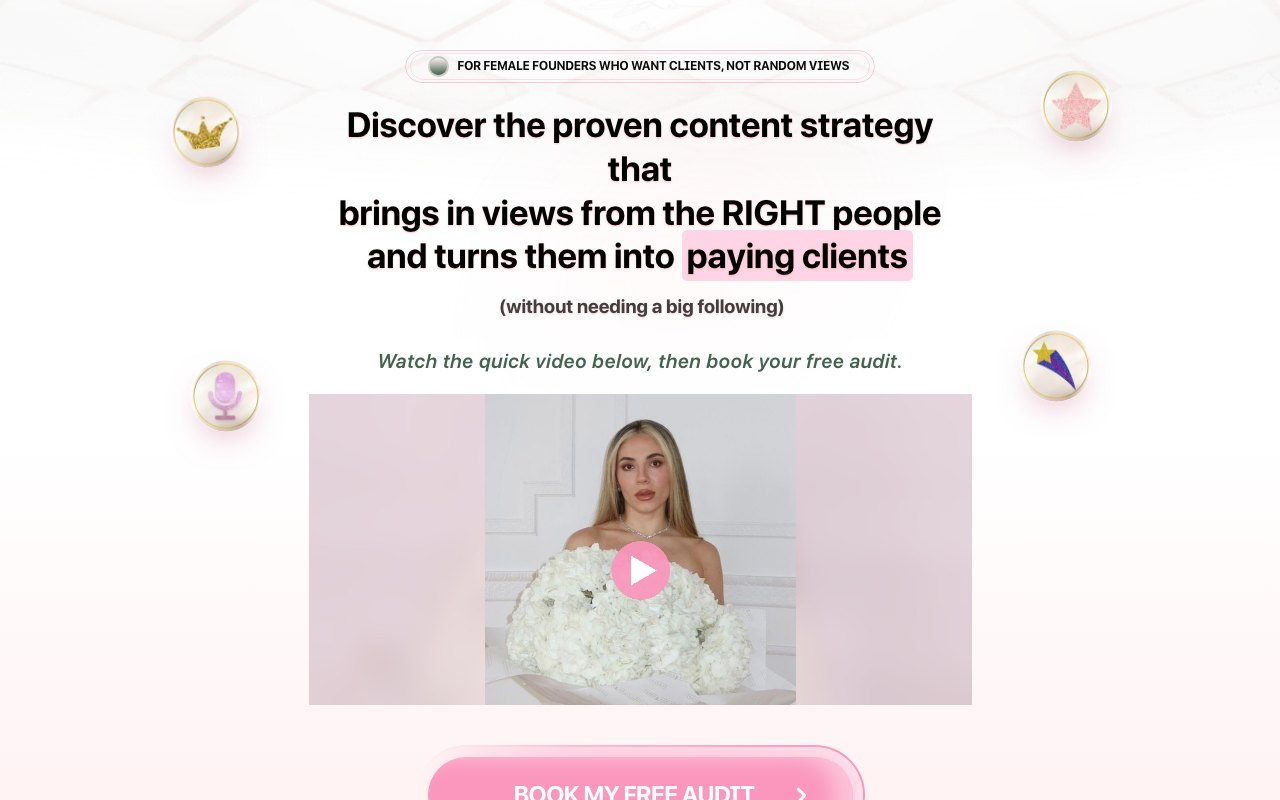
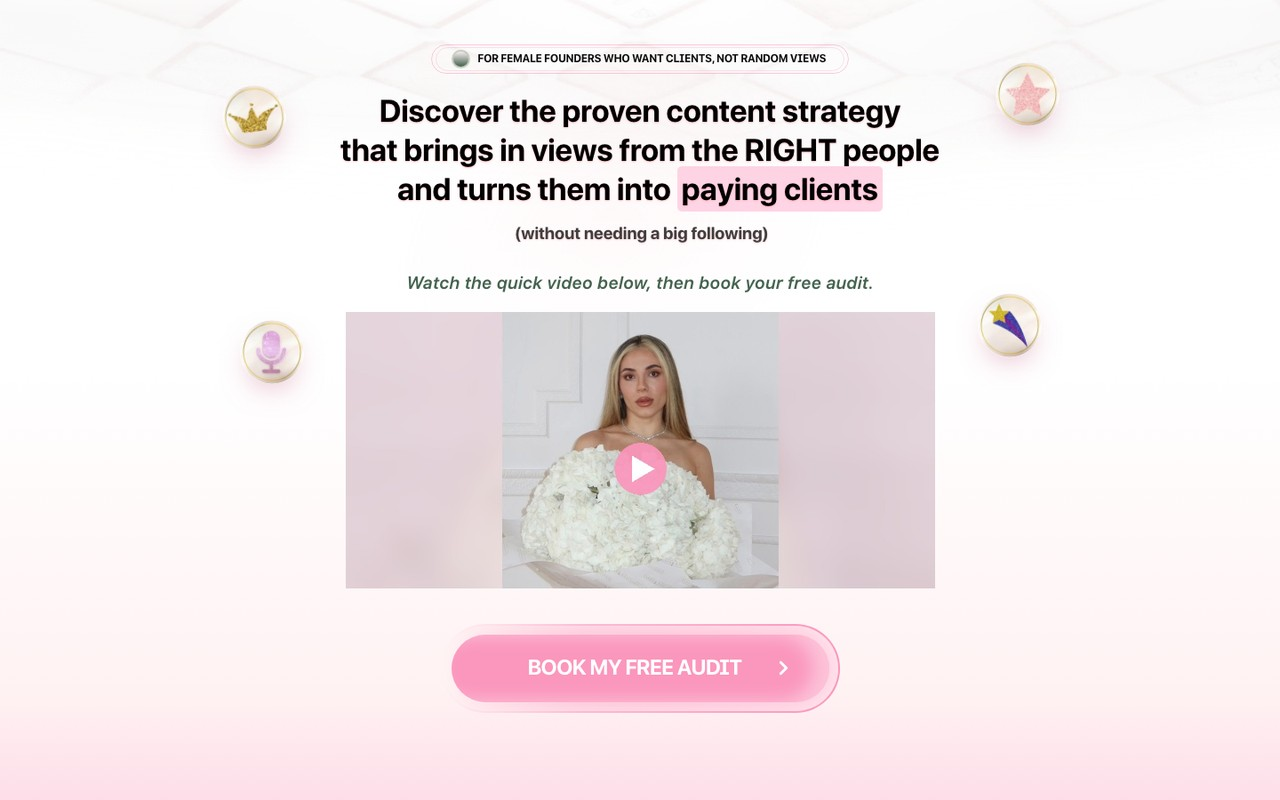
Free audit: fix headline line break, re-shoot hub thumbnail at 1440

diff --git a/free-audit/index.html b/free-audit/index.html
@@ -343,7 +343,7 @@
     
     <!-- End of bodyStart -->
 	
-	<div id="main" data-framer-hydrate-v2="{&quot;routeId&quot;:&quot;h5i_oXUbv&quot;,&quot;localeId&quot;:&quot;default&quot;,&quot;breakpoints&quot;:[{&quot;hash&quot;:&quot;4s8koe&quot;,&quot;mediaQuery&quot;:&quot;(min-width: 1200px)&quot;},{&quot;hash&quot;:&quot;uwvbux&quot;,&quot;mediaQuery&quot;:&quot;(min-width: 810px) and (max-width: 1199.98px)&quot;},{&quot;hash&quot;:&quot;iz4sl3&quot;,&quot;mediaQuery&quot;:&quot;(min-width: 414px) and (max-width: 809.98px)&quot;},{&quot;hash&quot;:&quot;1br1e2t&quot;,&quot;mediaQuery&quot;:&quot;(max-width: 413.98px)&quot;}]}" data-framer-ssr-released-at="2026-09-29T13:05:31.037Z" data-framer-page-optimized-at="2026-09-29T19:42:05.962Z" data-framer-generated-page><!--$--><style data-framer-html-style>html body { background: rgb(255, 255, 255); }</style><div data-framer-root class="framer-X8zpi framer-Y1jLK framer-4s8koe" style="min-height:100vh;width:auto"><div class="framer-q2tiia"><div class="framer-1xpcqbd" data-framer-name="bg shape" style="transform:rotate(-43deg)"></div></div><div class="framer-17dakj4 hidden-4s8koe hidden-uwvbux hidden-iz4sl3"><div class="framer-msisua" data-border="true"><div class="framer-1wldt96" data-border="true" data-framer-name="Alert"><div class="framer-14oqm4g" data-framer-name="Pulse"><div class="framer-1hjm7bx" data-framer-name="Small"></div><div class="framer-rq7udd" data-framer-name="Big" style="will-change:transform;opacity:0.4;transform:none"></div></div><div class="framer-1khw9ha" data-framer-component-type="RichTextContainer" style="transform:none"><p dir="auto" style="--font-selector:Q1VTVE9NVjI7U0YgUHJvIERpc3BsYXkgQm9sZA==;--framer-font-family:&quot;SF Pro Display Bold&quot;, &quot;SF Pro Display Bold Placeholder&quot;, sans-serif;--framer-font-open-type-features:'cv01' on, 'cv09' on, 'cv11' on, 'cv05' on, 'ss03' on;--framer-font-size:12px;--framer-font-weight:700;--framer-letter-spacing:0.01em;--framer-text-color:var(--token-b268148b-59de-488b-84bf-ae89da343fe3, rgb(10, 10, 10))" class="framer-text">FOR FEMALE FOUNDERS WHO WANT CLIENTS, NOT RANDOM VIEWS</p></div></div></div></div><div class="framer-tpus61" data-framer-name="HERO"><div class="framer-1c7eb5z" data-framer-name="UPPERPART"><div class="framer-1u1eqik" data-framer-name="main"><div class="framer-3c9dne"><div class="framer-2tj5pi" data-framer-name="main"><div class="framer-csus2r"><div class="framer-efgnys" data-framer-name="main"><div class="framer-5fq69k hidden-1br1e2t" data-border="true"><div class="framer-k2ezid hidden-iz4sl3" data-border="true" data-framer-name="Alert"><div class="framer-17cyu9v" data-framer-name="Pulse"><div class="framer-1uqd4z8" data-framer-name="Small"></div><div class="framer-vag2ty" data-framer-name="Big" style="will-change:transform;opacity:0.4;transform:none"></div></div><div class="ssr-variant hidden-uwvbux"><div class="framer-bhxyn7" data-framer-component-type="RichTextContainer" style="transform:none"><p dir="auto" style="--font-selector:Q1VTVE9NVjI7U0YgUHJvIERpc3BsYXkgQm9sZA==;--framer-font-family:&quot;SF Pro Display Bold&quot;, &quot;SF Pro Display Bold Placeholder&quot;, sans-serif;--framer-font-open-type-features:'cv01' on, 'cv09' on, 'cv11' on, 'cv05' on, 'ss03' on;--framer-font-size:12px;--framer-font-weight:700;--framer-letter-spacing:0.01em;--framer-text-color:var(--token-b268148b-59de-488b-84bf-ae89da343fe3, rgb(10, 10, 10))" class="framer-text">FOR FEMALE FOUNDERS WHO WANT CLIENTS, NOT RANDOM VIEWS</p></div></div><div class="ssr-variant hidden-iz4sl3 hidden-1br1e2t hidden-4s8koe"><div class="framer-bhxyn7" data-framer-component-type="RichTextContainer" style="transform:none"><p dir="auto" style="--font-selector:Q1VTVE9NVjI7U0YgUHJvIERpc3BsYXkgQm9sZA==;--framer-font-family:&quot;SF Pro Display Bold&quot;, &quot;SF Pro Display Bold Placeholder&quot;, sans-serif;--framer-font-open-type-features:'cv01' on, 'cv09' on, 'cv11' on, 'cv05' on, 'ss03' on;--framer-font-size:11px;--framer-font-weight:700;--framer-letter-spacing:0.01em;--framer-text-color:var(--token-b268148b-59de-488b-84bf-ae89da343fe3, rgb(10, 10, 10))" class="framer-text">FOR FEMALE FOUNDERS WHO WANT CLIENTS, NOT RANDOM VIEWS</p></div></div></div><div class="framer-9qt16u hidden-4s8koe hidden-uwvbux" data-border="true"><div class="framer-vjqidj" data-border="true" data-framer-name="Alert"><div class="framer-1y2ulve" data-framer-name="Pulse"><div class="framer-k6xz6w" data-framer-name="Small"></div><div class="framer-11rk619" data-framer-name="Big" style="will-change:transform;opacity:0.4;transform:none"></div></div><div class="framer-1fw6d6x" data-framer-component-type="RichTextContainer" style="transform:none"><p dir="auto" style="--font-selector:Q1VTVE9NVjI7U0YgUHJvIERpc3BsYXkgQm9sZA==;--framer-font-family:&quot;SF Pro Display Bold&quot;, &quot;SF Pro Display Bold Placeholder&quot;, sans-serif;--framer-font-open-type-features:'cv01' on, 'cv09' on, 'cv11' on, 'cv05' on, 'ss03' on;--framer-font-size:12px;--framer-font-weight:700;--framer-letter-spacing:0.01em;--framer-text-color:var(--token-b268148b-59de-488b-84bf-ae89da343fe3, rgb(10, 10, 10))" class="framer-text">FOR FEMALE FOUNDERS WHO WANT CLIENTS, NOT RANDOM VIEWS</p></div></div></div></div><div class="ssr-variant hidden-iz4sl3 hidden-1br1e2t hidden-uwvbux"><div class="framer-1u7wy1i" data-framer-name="WTITLE2" data-selection="true" data-framer-component-type="RichTextContainer" style="transform:none"><p dir="auto" style="--font-selector:Q1VTVE9NVjI7U0YgUHJvIERpc3BsYXkgQm9sZA==;--framer-font-family:&quot;SF Pro Display Bold&quot;, &quot;SF Pro Display Bold Placeholder&quot;, sans-serif;--framer-font-size:35px;--framer-font-weight:700;--framer-line-height:1.25em;--framer-text-alignment:center" class="framer-text">Discover the proven content strategy that</p><p dir="auto" style="--font-selector:Q1VTVE9NVjI7U0YgUHJvIERpc3BsYXkgQm9sZA==;--framer-font-family:&quot;SF Pro Display Bold&quot;, &quot;SF Pro Display Bold Placeholder&quot;, sans-serif;--framer-font-size:35px;--framer-font-weight:700;--framer-line-height:1.25em;--framer-text-alignment:center" class="framer-text">brings in views from the RIGHT people and turns them into <mark style="--framer-text-background-color:rgb(255, 212, 228);--framer-text-background-padding:5px;--framer-text-background-radius:5px" class="framer-text">paying clients</mark><span class="rp-wo"> (without needing a big following)</span></p></div></div><div class="ssr-variant hidden-1br1e2t hidden-uwvbux hidden-4s8koe"><div class="framer-1u7wy1i" data-framer-name="WTITLE2" data-selection="true" data-framer-component-type="RichTextContainer" style="transform:none"><p dir="auto" style="--font-selector:Q1VTVE9NVjI7U0YgUHJvIERpc3BsYXkgQm9sZA==;--framer-font-family:&quot;SF Pro Display Bold&quot;, &quot;SF Pro Display Bold Placeholder&quot;, sans-serif;--framer-font-size:27px;--framer-font-weight:700;--framer-line-height:1.25em;--framer-text-alignment:center" class="framer-text">Discover the proven content strategy that brings in views from the RIGHT people</p><p dir="auto" style="--font-selector:Q1VTVE9NVjI7U0YgUHJvIERpc3BsYXkgQm9sZA==;--framer-font-family:&quot;SF Pro Display Bold&quot;, &quot;SF Pro Display Bold Placeholder&quot;, sans-serif;--framer-font-size:27px;--framer-font-weight:700;--framer-line-height:1.25em;--framer-text-alignment:center" class="framer-text">and turns them into <mark style="--framer-text-background-color:rgb(255, 212, 228);--framer-text-background-padding:5px;--framer-text-background-radius:5px" class="framer-text">paying clients</mark><span class="rp-wo"> (without needing a big following)</span></p></div></div><div class="ssr-variant hidden-iz4sl3 hidden-uwvbux hidden-4s8koe"><div class="framer-1u7wy1i" data-framer-name="WTITLE2" data-selection="true" data-framer-component-type="RichTextContainer" style="transform:none"><p dir="auto" style="--font-selector:Q1VTVE9NVjI7U0YgUHJvIERpc3BsYXkgQm9sZA==;--framer-font-family:&quot;SF Pro Display Bold&quot;, &quot;SF Pro Display Bold Placeholder&quot;, sans-serif;--framer-font-size:25px;--framer-font-weight:700;--framer-line-height:1.25em;--framer-text-alignment:center" class="framer-text">Discover the proven content strategy that brings in views from the RIGHT people</p><p dir="auto" style="--font-selector:Q1VTVE9NVjI7U0YgUHJvIERpc3BsYXkgQm9sZA==;--framer-font-family:&quot;SF Pro Display Bold&quot;, &quot;SF Pro Display Bold Placeholder&quot;, sans-serif;--framer-font-size:25px;--framer-font-weight:700;--framer-line-height:1.25em;--framer-text-alignment:center" class="framer-text">and turns them into <mark style="--framer-text-background-color:rgb(255, 212, 228);--framer-text-background-padding:5px;--framer-text-background-radius:5px" class="framer-text">paying clients</mark><span class="rp-wo"> (without needing a big following)</span></p></div></div><div class="ssr-variant hidden-iz4sl3 hidden-1br1e2t hidden-4s8koe"><div class="framer-1u7wy1i" data-framer-name="WTITLE2" data-selection="true" data-framer-component-type="RichTextContainer" style="transform:none"><p dir="auto" style="--font-selector:Q1VTVE9NVjI7U0YgUHJvIERpc3BsYXkgQm9sZA==;--framer-font-family:&quot;SF Pro Display Bold&quot;, &quot;SF Pro Display Bold Placeholder&quot;, sans-serif;--framer-font-size:35px;--framer-font-weight:700;--framer-line-height:1.25em;--framer-text-alignment:center" class="framer-text">Discover the proven content strategy that </p><p dir="auto" style="--font-selector:Q1VTVE9NVjI7U0YgUHJvIERpc3BsYXkgQm9sZA==;--framer-font-family:&quot;SF Pro Display Bold&quot;, &quot;SF Pro Display Bold Placeholder&quot;, sans-serif;--framer-font-size:35px;--framer-font-weight:700;--framer-line-height:1.25em;--framer-text-alignment:center" class="framer-text">brings in views from the RIGHT people and turns them into <mark style="--framer-text-background-color:rgb(255, 212, 228);--framer-text-background-padding:5px;--framer-text-background-radius:5px" class="framer-text">paying clients</mark><span class="rp-wo"> (without needing a big following)</span></p></div></div><div class="ssr-variant hidden-iz4sl3 hidden-1br1e2t"><div class="framer-133eyea hidden-uwvbux" data-framer-name="WSUB2" data-selection="true" data-framer-component-type="RichTextContainer" style="transform:none"><p dir="auto" style="--font-selector:Q1VTVE9NVjI7U0YgUHJvIERpc3BsYXkgU2VtaWJvbGQgSXRhbGlj;--framer-font-family:&quot;SF Pro Display Semibold Italic&quot;, &quot;SF Pro Display Semibold Italic Placeholder&quot;, sans-serif;--framer-font-size:20px;--framer-font-weight:600;--framer-letter-spacing:0.03em;--framer-line-height:1.3em;--framer-text-alignment:center;--framer-text-color:var(--token-60dd54ff-967d-4bdd-a395-66d9ee4c573e, rgb(130, 150, 114))" class="framer-text">Watch the quick video below, then book your free audit.</p></div></div><div class="ssr-variant hidden-1br1e2t hidden-uwvbux hidden-4s8koe"><div class="framer-133eyea hidden-uwvbux" data-framer-name="WSUB2" data-selection="true" data-framer-component-type="RichTextContainer" style="transform:none"><p dir="auto" style="--font-selector:Q1VTVE9NVjI7U0YgUHJvIERpc3BsYXkgU2VtaWJvbGQgSXRhbGlj;--framer-font-family:&quot;SF Pro Display Semibold Italic&quot;, &quot;SF Pro Display Semibold Italic Placeholder&quot;, sans-serif;--framer-font-size:18px;--framer-font-weight:600;--framer-letter-spacing:0.03em;--framer-line-height:20px;--framer-text-alignment:center;--framer-text-color:var(--token-60dd54ff-967d-4bdd-a395-66d9ee4c573e, rgb(130, 150, 114))" class="framer-text">Watch the quick video below</p><p dir="auto" style="--font-selector:Q1VTVE9NVjI7U0YgUHJvIERpc3BsYXkgU2VtaWJvbGQgSXRhbGlj;--framer-font-family:&quot;SF Pro Display Semibold Italic&quot;, &quot;SF Pro Display Semibold Italic Placeholder&quot;, sans-serif;--framer-font-size:18px;--framer-font-weight:600;--framer-letter-spacing:0.03em;--framer-line-height:20px;--framer-text-alignment:center;--framer-text-color:var(--token-60dd54ff-967d-4bdd-a395-66d9ee4c573e, rgb(130, 150, 114))" class="framer-text">then book your free audit.</p></div></div><div class="ssr-variant hidden-iz4sl3 hidden-uwvbux hidden-4s8koe"><div class="framer-133eyea hidden-uwvbux" data-framer-name="WSUB2" data-selection="true" data-framer-component-type="RichTextContainer" style="transform:none"><p dir="auto" style="--font-selector:Q1VTVE9NVjI7U0YgUHJvIERpc3BsYXkgU2VtaWJvbGQgSXRhbGlj;--framer-font-family:&quot;SF Pro Display Semibold Italic&quot;, &quot;SF Pro Display Semibold Italic Placeholder&quot;, sans-serif;--framer-font-size:17px;--framer-font-weight:600;--framer-letter-spacing:0.03em;--framer-line-height:20px;--framer-text-alignment:center;--framer-text-color:var(--token-60dd54ff-967d-4bdd-a395-66d9ee4c573e, rgb(130, 150, 114))" class="framer-text">Watch the quick video below</p><p dir="auto" style="--font-selector:Q1VTVE9NVjI7U0YgUHJvIERpc3BsYXkgU2VtaWJvbGQgSXRhbGlj;--framer-font-family:&quot;SF Pro Display Semibold Italic&quot;, &quot;SF Pro Display Semibold Italic Placeholder&quot;, sans-serif;--framer-font-size:17px;--framer-font-weight:600;--framer-letter-spacing:0.03em;--framer-line-height:20px;--framer-text-alignment:center;--framer-text-color:var(--token-60dd54ff-967d-4bdd-a395-66d9ee4c573e, rgb(130, 150, 114))" class="framer-text">then book your free audit.</p></div></div><div class="framer-5onn8g-container" data-framer-name="main" name="main"><!--$--><div class="ssr-variant hidden-iz4sl3 hidden-1br1e2t"><img src="../assets/img/lp/vsl_thumb.jpg" alt="Watch the video" style="display:block;width:100%;height:auto;aspect-ratio:2.1333;object-fit:cover;border-radius:inherit;cursor:pointer"></div><div class="ssr-variant hidden-uwvbux hidden-4s8koe"><img src="../assets/img/lp/vsl_thumb.jpg" alt="Watch the video" style="display:block;width:100%;height:auto;aspect-ratio:2.1333;object-fit:cover;border-radius:inherit;cursor:pointer"></div><!--/$--></div><div class="framer-9o72vd hidden-4s8koe hidden-1br1e2t hidden-iz4sl3" data-framer-name="WSUB2" data-selection="true" data-framer-component-type="RichTextContainer" style="transform:none"><p dir="auto" style="--font-selector:Q1VTVE9NVjI7U0YgUHJvIERpc3BsYXkgU2VtaWJvbGQgSXRhbGlj;--framer-font-family:&quot;SF Pro Display Semibold Italic&quot;, &quot;SF Pro Display Semibold Italic Placeholder&quot;, sans-serif;--framer-font-size:20px;--framer-font-weight:600;--framer-letter-spacing:0.03em;--framer-line-height:1.3em;--framer-text-alignment:center;--framer-text-color:var(--token-60dd54ff-967d-4bdd-a395-66d9ee4c573e, rgb(130, 150, 114))" class="framer-text">Watch the quick video below, then book your free audit.</p></div></div></div></div></div></div></div><div class="framer-2bt8ym" data-framer-name="LOWERPART"><div class="framer-mkelf" id="mkelf"><div class="framer-r6ybmd"><div class="framer-km6ps3"><div class="framer-u14wqm"><div class="framer-1habm5t"><div class="ssr-variant hidden-iz4sl3 hidden-1br1e2t"><div class="framer-65of25-container" id="65of25"><!--$--><a class="framer-fKeW8 framer-1ylc52x framer-v-1ylc52x framer-1djlza1" data-framer-name="Variant 1" data-highlight="true" tabindex="0" style="background:linear-gradient(90deg, rgba(255, 255, 255, 0) 0%, rgba(251, 150, 188, 0.6) 35.63529349662162%, var(--token-78ab1caa-2397-409b-a711-af0f2c84a0c3, rgb(251, 150, 188)) 100%);border-bottom-left-radius:99999px;border-bottom-right-radius:99999px;border-top-left-radius:99999px;border-top-right-radius:99999px"><div class="framer-hbrjzz" style="background:linear-gradient(270deg, rgb(255, 204, 224) 0%, rgba(240, 227, 225, 0) 100%);border-bottom-left-radius:99999px;border-bottom-right-radius:99999px;border-top-left-radius:99999px;border-top-right-radius:99999px;box-shadow:inset -1px 0px 26px 4px rgba(255, 245, 245, 0.71)"><div class="framer-5opsfe" style="background-color:var(--token-78ab1caa-2397-409b-a711-af0f2c84a0c3, rgb(216, 149, 155));border-bottom-left-radius:99999px;border-bottom-right-radius:99999px;border-top-left-radius:99999px;border-top-right-radius:99999px;box-shadow:inset -17px 0px 21px 1px rgba(255, 255, 255, 0.44)"><div class="framer-1hrjr2s"><div class="framer-w7ozlh" data-framer-component-type="RichTextContainer" style="--extracted-1of0zx5:rgb(255, 255, 255);--framer-link-text-color:rgb(0, 153, 255);--framer-link-text-decoration:underline;transform:translate(-50%, -50%)"><h2 dir="auto" class="framer-text" style="--font-selector:Q1VTVE9NVjI7U0YgUHJvIERpc3BsYXkgQm9sZA==;--framer-font-family:&quot;SF Pro Display Bold&quot;, &quot;SF Pro Display Bold Placeholder&quot;, sans-serif;--framer-font-open-type-features:'cv01' on, 'cv09' on, 'cv11' on, 'cv05' on, 'ss03' on;--framer-font-size:24px;--framer-font-weight:700;--framer-letter-spacing:-0.02em;--framer-line-height:1em;--framer-text-alignment:center;--framer-text-color:var(--extracted-1of0zx5, rgb(255, 255, 255))">BOOK MY FREE AUDIT</h2></div><div data-framer-component-type="SVG" parentsize="0" _constraints="[object Object]" rotation="0" shadows class="framer-12bnssz" aria-hidden="true" style="image-rendering:pixelated;flex-shrink:0;fill:rgb(255, 255, 255);color:rgb(255, 255, 255)"><div class="svgContainer" style="width:100%;height:100%;aspect-ratio:inherit"><svg style="width:100%;height:100%;"><use href="#svg-866811255_189"/></svg></div></div><div data-framer-component-type="SVG" parentsize="0" _constraints="[object Object]" rotation="0" shadows class="framer-dgrylw" aria-hidden="true" style="image-rendering:pixelated;flex-shrink:0;fill:var(--token-1ee6d819-e713-432d-a5bd-cf23d9294804, rgb(234, 234, 234));color:var(--token-1ee6d819-e713-432d-a5bd-cf23d9294804, rgb(234, 234, 234))"><div class="svgContainer" style="width:100%;height:100%;aspect-ratio:inherit"><svg style="width:100%;height:100%;"><use href="#svg-866811255_189"/></svg></div></div></div></div></div></a><!--/$--></div></div><div class="ssr-variant hidden-uwvbux hidden-4s8koe"><div class="framer-65of25-container" id="65of25"><!--$--><a class="framer-fKeW8 framer-1ylc52x framer-v-15c24n7 framer-1djlza1" data-framer-name="Mobile" data-highlight="true" tabindex="0" style="background:linear-gradient(90deg, rgba(255, 255, 255, 0) 0%, rgba(251, 150, 188, 0.6) 35.63529349662162%, var(--token-78ab1caa-2397-409b-a711-af0f2c84a0c3, rgb(251, 150, 188)) 100%);border-bottom-left-radius:99999px;border-bottom-right-radius:99999px;border-top-left-radius:99999px;border-top-right-radius:99999px"><div class="framer-hbrjzz" style="background:linear-gradient(270deg, rgb(255, 204, 224) 0%, rgba(240, 227, 225, 0) 100%);border-bottom-left-radius:99999px;border-bottom-right-radius:99999px;border-top-left-radius:99999px;border-top-right-radius:99999px;box-shadow:inset -1px 0px 26px 4px rgba(255, 245, 245, 0.71)"><div class="framer-5opsfe" style="background-color:var(--token-78ab1caa-2397-409b-a711-af0f2c84a0c3, rgb(216, 149, 155));border-bottom-left-radius:99999px;border-bottom-right-radius:99999px;border-top-left-radius:99999px;border-top-right-radius:99999px;box-shadow:inset -17px 0px 21px 1px rgba(255, 255, 255, 0.44)"><div class="framer-1hrjr2s"><div class="framer-w7ozlh" data-framer-component-type="RichTextContainer" style="--extracted-1of0zx5:rgb(255, 255, 255);--framer-link-text-color:rgb(0, 153, 255);--framer-link-text-decoration:underline;transform:translate(-50%, -50%)"><h2 dir="auto" class="framer-text" style="--font-selector:Q1VTVE9NVjI7U0YgUHJvIERpc3BsYXkgQm9sZA==;--framer-font-family:&quot;SF Pro Display Bold&quot;, &quot;SF Pro Display Bold Placeholder&quot;, sans-serif;--framer-font-open-type-features:'cv01' on, 'cv09' on, 'cv11' on, 'cv05' on, 'ss03' on;--framer-font-size:22px;--framer-font-weight:700;--framer-letter-spacing:-0.02em;--framer-line-height:1em;--framer-text-alignment:center;--framer-text-color:var(--extracted-1of0zx5, rgb(255, 255, 255))">BOOK MY FREE AUDIT</h2></div><div data-framer-component-type="SVG" parentsize="0" _constraints="[object Object]" rotation="0" shadows class="framer-12bnssz" aria-hidden="true" style="image-rendering:pixelated;flex-shrink:0;fill:rgb(255, 255, 255);color:rgb(255, 255, 255)"><div class="svgContainer" style="width:100%;height:100%;aspect-ratio:inherit"><svg style="width:100%;height:100%;"><use href="#svg-866811255_189"/></svg></div></div></div></div></div></a><!--/$--></div></div></div></div></div></div></div></div></div><div class="framer-1kycvi1 hidden-4s8koe hidden-uwvbux"><div class="framer-gh8c0y"><div class="framer-9itru8" data-framer-name="bg shape" style="transform:rotate(-43deg)"></div></div></div><div class="framer-pqhicm" style="transform:translateX(-50%)"><div class="framer-1l29gjx" data-framer-name="bg shape" style="transform:rotate(-43deg)"></div></div><div class="framer-10c3wkd"><div class="framer-1la01sa" data-framer-name="bg shape" style="transform:rotate(-43deg)"></div></div><section class="rp-more">
+	<div id="main" data-framer-hydrate-v2="{&quot;routeId&quot;:&quot;h5i_oXUbv&quot;,&quot;localeId&quot;:&quot;default&quot;,&quot;breakpoints&quot;:[{&quot;hash&quot;:&quot;4s8koe&quot;,&quot;mediaQuery&quot;:&quot;(min-width: 1200px)&quot;},{&quot;hash&quot;:&quot;uwvbux&quot;,&quot;mediaQuery&quot;:&quot;(min-width: 810px) and (max-width: 1199.98px)&quot;},{&quot;hash&quot;:&quot;iz4sl3&quot;,&quot;mediaQuery&quot;:&quot;(min-width: 414px) and (max-width: 809.98px)&quot;},{&quot;hash&quot;:&quot;1br1e2t&quot;,&quot;mediaQuery&quot;:&quot;(max-width: 413.98px)&quot;}]}" data-framer-ssr-released-at="2026-09-29T13:05:31.037Z" data-framer-page-optimized-at="2026-09-29T19:42:05.962Z" data-framer-generated-page><!--$--><style data-framer-html-style>html body { background: rgb(255, 255, 255); }</style><div data-framer-root class="framer-X8zpi framer-Y1jLK framer-4s8koe" style="min-height:100vh;width:auto"><div class="framer-q2tiia"><div class="framer-1xpcqbd" data-framer-name="bg shape" style="transform:rotate(-43deg)"></div></div><div class="framer-17dakj4 hidden-4s8koe hidden-uwvbux hidden-iz4sl3"><div class="framer-msisua" data-border="true"><div class="framer-1wldt96" data-border="true" data-framer-name="Alert"><div class="framer-14oqm4g" data-framer-name="Pulse"><div class="framer-1hjm7bx" data-framer-name="Small"></div><div class="framer-rq7udd" data-framer-name="Big" style="will-change:transform;opacity:0.4;transform:none"></div></div><div class="framer-1khw9ha" data-framer-component-type="RichTextContainer" style="transform:none"><p dir="auto" style="--font-selector:Q1VTVE9NVjI7U0YgUHJvIERpc3BsYXkgQm9sZA==;--framer-font-family:&quot;SF Pro Display Bold&quot;, &quot;SF Pro Display Bold Placeholder&quot;, sans-serif;--framer-font-open-type-features:'cv01' on, 'cv09' on, 'cv11' on, 'cv05' on, 'ss03' on;--framer-font-size:12px;--framer-font-weight:700;--framer-letter-spacing:0.01em;--framer-text-color:var(--token-b268148b-59de-488b-84bf-ae89da343fe3, rgb(10, 10, 10))" class="framer-text">FOR FEMALE FOUNDERS WHO WANT CLIENTS, NOT RANDOM VIEWS</p></div></div></div></div><div class="framer-tpus61" data-framer-name="HERO"><div class="framer-1c7eb5z" data-framer-name="UPPERPART"><div class="framer-1u1eqik" data-framer-name="main"><div class="framer-3c9dne"><div class="framer-2tj5pi" data-framer-name="main"><div class="framer-csus2r"><div class="framer-efgnys" data-framer-name="main"><div class="framer-5fq69k hidden-1br1e2t" data-border="true"><div class="framer-k2ezid hidden-iz4sl3" data-border="true" data-framer-name="Alert"><div class="framer-17cyu9v" data-framer-name="Pulse"><div class="framer-1uqd4z8" data-framer-name="Small"></div><div class="framer-vag2ty" data-framer-name="Big" style="will-change:transform;opacity:0.4;transform:none"></div></div><div class="ssr-variant hidden-uwvbux"><div class="framer-bhxyn7" data-framer-component-type="RichTextContainer" style="transform:none"><p dir="auto" style="--font-selector:Q1VTVE9NVjI7U0YgUHJvIERpc3BsYXkgQm9sZA==;--framer-font-family:&quot;SF Pro Display Bold&quot;, &quot;SF Pro Display Bold Placeholder&quot;, sans-serif;--framer-font-open-type-features:'cv01' on, 'cv09' on, 'cv11' on, 'cv05' on, 'ss03' on;--framer-font-size:12px;--framer-font-weight:700;--framer-letter-spacing:0.01em;--framer-text-color:var(--token-b268148b-59de-488b-84bf-ae89da343fe3, rgb(10, 10, 10))" class="framer-text">FOR FEMALE FOUNDERS WHO WANT CLIENTS, NOT RANDOM VIEWS</p></div></div><div class="ssr-variant hidden-iz4sl3 hidden-1br1e2t hidden-4s8koe"><div class="framer-bhxyn7" data-framer-component-type="RichTextContainer" style="transform:none"><p dir="auto" style="--font-selector:Q1VTVE9NVjI7U0YgUHJvIERpc3BsYXkgQm9sZA==;--framer-font-family:&quot;SF Pro Display Bold&quot;, &quot;SF Pro Display Bold Placeholder&quot;, sans-serif;--framer-font-open-type-features:'cv01' on, 'cv09' on, 'cv11' on, 'cv05' on, 'ss03' on;--framer-font-size:11px;--framer-font-weight:700;--framer-letter-spacing:0.01em;--framer-text-color:var(--token-b268148b-59de-488b-84bf-ae89da343fe3, rgb(10, 10, 10))" class="framer-text">FOR FEMALE FOUNDERS WHO WANT CLIENTS, NOT RANDOM VIEWS</p></div></div></div><div class="framer-9qt16u hidden-4s8koe hidden-uwvbux" data-border="true"><div class="framer-vjqidj" data-border="true" data-framer-name="Alert"><div class="framer-1y2ulve" data-framer-name="Pulse"><div class="framer-k6xz6w" data-framer-name="Small"></div><div class="framer-11rk619" data-framer-name="Big" style="will-change:transform;opacity:0.4;transform:none"></div></div><div class="framer-1fw6d6x" data-framer-component-type="RichTextContainer" style="transform:none"><p dir="auto" style="--font-selector:Q1VTVE9NVjI7U0YgUHJvIERpc3BsYXkgQm9sZA==;--framer-font-family:&quot;SF Pro Display Bold&quot;, &quot;SF Pro Display Bold Placeholder&quot;, sans-serif;--framer-font-open-type-features:'cv01' on, 'cv09' on, 'cv11' on, 'cv05' on, 'ss03' on;--framer-font-size:12px;--framer-font-weight:700;--framer-letter-spacing:0.01em;--framer-text-color:var(--token-b268148b-59de-488b-84bf-ae89da343fe3, rgb(10, 10, 10))" class="framer-text">FOR FEMALE FOUNDERS WHO WANT CLIENTS, NOT RANDOM VIEWS</p></div></div></div></div><div class="ssr-variant hidden-iz4sl3 hidden-1br1e2t hidden-uwvbux"><div class="framer-1u7wy1i" data-framer-name="WTITLE2" data-selection="true" data-framer-component-type="RichTextContainer" style="transform:none"><p dir="auto" style="--font-selector:Q1VTVE9NVjI7U0YgUHJvIERpc3BsYXkgQm9sZA==;--framer-font-family:&quot;SF Pro Display Bold&quot;, &quot;SF Pro Display Bold Placeholder&quot;, sans-serif;--framer-font-size:35px;--framer-font-weight:700;--framer-line-height:1.25em;--framer-text-alignment:center" class="framer-text">Discover the proven content strategy</p><p dir="auto" style="--font-selector:Q1VTVE9NVjI7U0YgUHJvIERpc3BsYXkgQm9sZA==;--framer-font-family:&quot;SF Pro Display Bold&quot;, &quot;SF Pro Display Bold Placeholder&quot;, sans-serif;--framer-font-size:35px;--framer-font-weight:700;--framer-line-height:1.25em;--framer-text-alignment:center" class="framer-text">that brings in views from the RIGHT people and turns them into <mark style="--framer-text-background-color:rgb(255, 212, 228);--framer-text-background-padding:5px;--framer-text-background-radius:5px" class="framer-text">paying clients</mark><span class="rp-wo"> (without needing a big following)</span></p></div></div><div class="ssr-variant hidden-1br1e2t hidden-uwvbux hidden-4s8koe"><div class="framer-1u7wy1i" data-framer-name="WTITLE2" data-selection="true" data-framer-component-type="RichTextContainer" style="transform:none"><p dir="auto" style="--font-selector:Q1VTVE9NVjI7U0YgUHJvIERpc3BsYXkgQm9sZA==;--framer-font-family:&quot;SF Pro Display Bold&quot;, &quot;SF Pro Display Bold Placeholder&quot;, sans-serif;--framer-font-size:27px;--framer-font-weight:700;--framer-line-height:1.25em;--framer-text-alignment:center" class="framer-text">Discover the proven content strategy that brings in views from the RIGHT people</p><p dir="auto" style="--font-selector:Q1VTVE9NVjI7U0YgUHJvIERpc3BsYXkgQm9sZA==;--framer-font-family:&quot;SF Pro Display Bold&quot;, &quot;SF Pro Display Bold Placeholder&quot;, sans-serif;--framer-font-size:27px;--framer-font-weight:700;--framer-line-height:1.25em;--framer-text-alignment:center" class="framer-text">and turns them into <mark style="--framer-text-background-color:rgb(255, 212, 228);--framer-text-background-padding:5px;--framer-text-background-radius:5px" class="framer-text">paying clients</mark><span class="rp-wo"> (without needing a big following)</span></p></div></div><div class="ssr-variant hidden-iz4sl3 hidden-uwvbux hidden-4s8koe"><div class="framer-1u7wy1i" data-framer-name="WTITLE2" data-selection="true" data-framer-component-type="RichTextContainer" style="transform:none"><p dir="auto" style="--font-selector:Q1VTVE9NVjI7U0YgUHJvIERpc3BsYXkgQm9sZA==;--framer-font-family:&quot;SF Pro Display Bold&quot;, &quot;SF Pro Display Bold Placeholder&quot;, sans-serif;--framer-font-size:25px;--framer-font-weight:700;--framer-line-height:1.25em;--framer-text-alignment:center" class="framer-text">Discover the proven content strategy that brings in views from the RIGHT people</p><p dir="auto" style="--font-selector:Q1VTVE9NVjI7U0YgUHJvIERpc3BsYXkgQm9sZA==;--framer-font-family:&quot;SF Pro Display Bold&quot;, &quot;SF Pro Display Bold Placeholder&quot;, sans-serif;--framer-font-size:25px;--framer-font-weight:700;--framer-line-height:1.25em;--framer-text-alignment:center" class="framer-text">and turns them into <mark style="--framer-text-background-color:rgb(255, 212, 228);--framer-text-background-padding:5px;--framer-text-background-radius:5px" class="framer-text">paying clients</mark><span class="rp-wo"> (without needing a big following)</span></p></div></div><div class="ssr-variant hidden-iz4sl3 hidden-1br1e2t hidden-4s8koe"><div class="framer-1u7wy1i" data-framer-name="WTITLE2" data-selection="true" data-framer-component-type="RichTextContainer" style="transform:none"><p dir="auto" style="--font-selector:Q1VTVE9NVjI7U0YgUHJvIERpc3BsYXkgQm9sZA==;--framer-font-family:&quot;SF Pro Display Bold&quot;, &quot;SF Pro Display Bold Placeholder&quot;, sans-serif;--framer-font-size:35px;--framer-font-weight:700;--framer-line-height:1.25em;--framer-text-alignment:center" class="framer-text">Discover the proven content strategy</p><p dir="auto" style="--font-selector:Q1VTVE9NVjI7U0YgUHJvIERpc3BsYXkgQm9sZA==;--framer-font-family:&quot;SF Pro Display Bold&quot;, &quot;SF Pro Display Bold Placeholder&quot;, sans-serif;--framer-font-size:35px;--framer-font-weight:700;--framer-line-height:1.25em;--framer-text-alignment:center" class="framer-text">that brings in views from the RIGHT people and turns them into <mark style="--framer-text-background-color:rgb(255, 212, 228);--framer-text-background-padding:5px;--framer-text-background-radius:5px" class="framer-text">paying clients</mark><span class="rp-wo"> (without needing a big following)</span></p></div></div><div class="ssr-variant hidden-iz4sl3 hidden-1br1e2t"><div class="framer-133eyea hidden-uwvbux" data-framer-name="WSUB2" data-selection="true" data-framer-component-type="RichTextContainer" style="transform:none"><p dir="auto" style="--font-selector:Q1VTVE9NVjI7U0YgUHJvIERpc3BsYXkgU2VtaWJvbGQgSXRhbGlj;--framer-font-family:&quot;SF Pro Display Semibold Italic&quot;, &quot;SF Pro Display Semibold Italic Placeholder&quot;, sans-serif;--framer-font-size:20px;--framer-font-weight:600;--framer-letter-spacing:0.03em;--framer-line-height:1.3em;--framer-text-alignment:center;--framer-text-color:var(--token-60dd54ff-967d-4bdd-a395-66d9ee4c573e, rgb(130, 150, 114))" class="framer-text">Watch the quick video below, then book your free audit.</p></div></div><div class="ssr-variant hidden-1br1e2t hidden-uwvbux hidden-4s8koe"><div class="framer-133eyea hidden-uwvbux" data-framer-name="WSUB2" data-selection="true" data-framer-component-type="RichTextContainer" style="transform:none"><p dir="auto" style="--font-selector:Q1VTVE9NVjI7U0YgUHJvIERpc3BsYXkgU2VtaWJvbGQgSXRhbGlj;--framer-font-family:&quot;SF Pro Display Semibold Italic&quot;, &quot;SF Pro Display Semibold Italic Placeholder&quot;, sans-serif;--framer-font-size:18px;--framer-font-weight:600;--framer-letter-spacing:0.03em;--framer-line-height:20px;--framer-text-alignment:center;--framer-text-color:var(--token-60dd54ff-967d-4bdd-a395-66d9ee4c573e, rgb(130, 150, 114))" class="framer-text">Watch the quick video below</p><p dir="auto" style="--font-selector:Q1VTVE9NVjI7U0YgUHJvIERpc3BsYXkgU2VtaWJvbGQgSXRhbGlj;--framer-font-family:&quot;SF Pro Display Semibold Italic&quot;, &quot;SF Pro Display Semibold Italic Placeholder&quot;, sans-serif;--framer-font-size:18px;--framer-font-weight:600;--framer-letter-spacing:0.03em;--framer-line-height:20px;--framer-text-alignment:center;--framer-text-color:var(--token-60dd54ff-967d-4bdd-a395-66d9ee4c573e, rgb(130, 150, 114))" class="framer-text">then book your free audit.</p></div></div><div class="ssr-variant hidden-iz4sl3 hidden-uwvbux hidden-4s8koe"><div class="framer-133eyea hidden-uwvbux" data-framer-name="WSUB2" data-selection="true" data-framer-component-type="RichTextContainer" style="transform:none"><p dir="auto" style="--font-selector:Q1VTVE9NVjI7U0YgUHJvIERpc3BsYXkgU2VtaWJvbGQgSXRhbGlj;--framer-font-family:&quot;SF Pro Display Semibold Italic&quot;, &quot;SF Pro Display Semibold Italic Placeholder&quot;, sans-serif;--framer-font-size:17px;--framer-font-weight:600;--framer-letter-spacing:0.03em;--framer-line-height:20px;--framer-text-alignment:center;--framer-text-color:var(--token-60dd54ff-967d-4bdd-a395-66d9ee4c573e, rgb(130, 150, 114))" class="framer-text">Watch the quick video below</p><p dir="auto" style="--font-selector:Q1VTVE9NVjI7U0YgUHJvIERpc3BsYXkgU2VtaWJvbGQgSXRhbGlj;--framer-font-family:&quot;SF Pro Display Semibold Italic&quot;, &quot;SF Pro Display Semibold Italic Placeholder&quot;, sans-serif;--framer-font-size:17px;--framer-font-weight:600;--framer-letter-spacing:0.03em;--framer-line-height:20px;--framer-text-alignment:center;--framer-text-color:var(--token-60dd54ff-967d-4bdd-a395-66d9ee4c573e, rgb(130, 150, 114))" class="framer-text">then book your free audit.</p></div></div><div class="framer-5onn8g-container" data-framer-name="main" name="main"><!--$--><div class="ssr-variant hidden-iz4sl3 hidden-1br1e2t"><img src="../assets/img/lp/vsl_thumb.jpg" alt="Watch the video" style="display:block;width:100%;height:auto;aspect-ratio:2.1333;object-fit:cover;border-radius:inherit;cursor:pointer"></div><div class="ssr-variant hidden-uwvbux hidden-4s8koe"><img src="../assets/img/lp/vsl_thumb.jpg" alt="Watch the video" style="display:block;width:100%;height:auto;aspect-ratio:2.1333;object-fit:cover;border-radius:inherit;cursor:pointer"></div><!--/$--></div><div class="framer-9o72vd hidden-4s8koe hidden-1br1e2t hidden-iz4sl3" data-framer-name="WSUB2" data-selection="true" data-framer-component-type="RichTextContainer" style="transform:none"><p dir="auto" style="--font-selector:Q1VTVE9NVjI7U0YgUHJvIERpc3BsYXkgU2VtaWJvbGQgSXRhbGlj;--framer-font-family:&quot;SF Pro Display Semibold Italic&quot;, &quot;SF Pro Display Semibold Italic Placeholder&quot;, sans-serif;--framer-font-size:20px;--framer-font-weight:600;--framer-letter-spacing:0.03em;--framer-line-height:1.3em;--framer-text-alignment:center;--framer-text-color:var(--token-60dd54ff-967d-4bdd-a395-66d9ee4c573e, rgb(130, 150, 114))" class="framer-text">Watch the quick video below, then book your free audit.</p></div></div></div></div></div></div></div><div class="framer-2bt8ym" data-framer-name="LOWERPART"><div class="framer-mkelf" id="mkelf"><div class="framer-r6ybmd"><div class="framer-km6ps3"><div class="framer-u14wqm"><div class="framer-1habm5t"><div class="ssr-variant hidden-iz4sl3 hidden-1br1e2t"><div class="framer-65of25-container" id="65of25"><!--$--><a class="framer-fKeW8 framer-1ylc52x framer-v-1ylc52x framer-1djlza1" data-framer-name="Variant 1" data-highlight="true" tabindex="0" style="background:linear-gradient(90deg, rgba(255, 255, 255, 0) 0%, rgba(251, 150, 188, 0.6) 35.63529349662162%, var(--token-78ab1caa-2397-409b-a711-af0f2c84a0c3, rgb(251, 150, 188)) 100%);border-bottom-left-radius:99999px;border-bottom-right-radius:99999px;border-top-left-radius:99999px;border-top-right-radius:99999px"><div class="framer-hbrjzz" style="background:linear-gradient(270deg, rgb(255, 204, 224) 0%, rgba(240, 227, 225, 0) 100%);border-bottom-left-radius:99999px;border-bottom-right-radius:99999px;border-top-left-radius:99999px;border-top-right-radius:99999px;box-shadow:inset -1px 0px 26px 4px rgba(255, 245, 245, 0.71)"><div class="framer-5opsfe" style="background-color:var(--token-78ab1caa-2397-409b-a711-af0f2c84a0c3, rgb(216, 149, 155));border-bottom-left-radius:99999px;border-bottom-right-radius:99999px;border-top-left-radius:99999px;border-top-right-radius:99999px;box-shadow:inset -17px 0px 21px 1px rgba(255, 255, 255, 0.44)"><div class="framer-1hrjr2s"><div class="framer-w7ozlh" data-framer-component-type="RichTextContainer" style="--extracted-1of0zx5:rgb(255, 255, 255);--framer-link-text-color:rgb(0, 153, 255);--framer-link-text-decoration:underline;transform:translate(-50%, -50%)"><h2 dir="auto" class="framer-text" style="--font-selector:Q1VTVE9NVjI7U0YgUHJvIERpc3BsYXkgQm9sZA==;--framer-font-family:&quot;SF Pro Display Bold&quot;, &quot;SF Pro Display Bold Placeholder&quot;, sans-serif;--framer-font-open-type-features:'cv01' on, 'cv09' on, 'cv11' on, 'cv05' on, 'ss03' on;--framer-font-size:24px;--framer-font-weight:700;--framer-letter-spacing:-0.02em;--framer-line-height:1em;--framer-text-alignment:center;--framer-text-color:var(--extracted-1of0zx5, rgb(255, 255, 255))">BOOK MY FREE AUDIT</h2></div><div data-framer-component-type="SVG" parentsize="0" _constraints="[object Object]" rotation="0" shadows class="framer-12bnssz" aria-hidden="true" style="image-rendering:pixelated;flex-shrink:0;fill:rgb(255, 255, 255);color:rgb(255, 255, 255)"><div class="svgContainer" style="width:100%;height:100%;aspect-ratio:inherit"><svg style="width:100%;height:100%;"><use href="#svg-866811255_189"/></svg></div></div><div data-framer-component-type="SVG" parentsize="0" _constraints="[object Object]" rotation="0" shadows class="framer-dgrylw" aria-hidden="true" style="image-rendering:pixelated;flex-shrink:0;fill:var(--token-1ee6d819-e713-432d-a5bd-cf23d9294804, rgb(234, 234, 234));color:var(--token-1ee6d819-e713-432d-a5bd-cf23d9294804, rgb(234, 234, 234))"><div class="svgContainer" style="width:100%;height:100%;aspect-ratio:inherit"><svg style="width:100%;height:100%;"><use href="#svg-866811255_189"/></svg></div></div></div></div></div></a><!--/$--></div></div><div class="ssr-variant hidden-uwvbux hidden-4s8koe"><div class="framer-65of25-container" id="65of25"><!--$--><a class="framer-fKeW8 framer-1ylc52x framer-v-15c24n7 framer-1djlza1" data-framer-name="Mobile" data-highlight="true" tabindex="0" style="background:linear-gradient(90deg, rgba(255, 255, 255, 0) 0%, rgba(251, 150, 188, 0.6) 35.63529349662162%, var(--token-78ab1caa-2397-409b-a711-af0f2c84a0c3, rgb(251, 150, 188)) 100%);border-bottom-left-radius:99999px;border-bottom-right-radius:99999px;border-top-left-radius:99999px;border-top-right-radius:99999px"><div class="framer-hbrjzz" style="background:linear-gradient(270deg, rgb(255, 204, 224) 0%, rgba(240, 227, 225, 0) 100%);border-bottom-left-radius:99999px;border-bottom-right-radius:99999px;border-top-left-radius:99999px;border-top-right-radius:99999px;box-shadow:inset -1px 0px 26px 4px rgba(255, 245, 245, 0.71)"><div class="framer-5opsfe" style="background-color:var(--token-78ab1caa-2397-409b-a711-af0f2c84a0c3, rgb(216, 149, 155));border-bottom-left-radius:99999px;border-bottom-right-radius:99999px;border-top-left-radius:99999px;border-top-right-radius:99999px;box-shadow:inset -17px 0px 21px 1px rgba(255, 255, 255, 0.44)"><div class="framer-1hrjr2s"><div class="framer-w7ozlh" data-framer-component-type="RichTextContainer" style="--extracted-1of0zx5:rgb(255, 255, 255);--framer-link-text-color:rgb(0, 153, 255);--framer-link-text-decoration:underline;transform:translate(-50%, -50%)"><h2 dir="auto" class="framer-text" style="--font-selector:Q1VTVE9NVjI7U0YgUHJvIERpc3BsYXkgQm9sZA==;--framer-font-family:&quot;SF Pro Display Bold&quot;, &quot;SF Pro Display Bold Placeholder&quot;, sans-serif;--framer-font-open-type-features:'cv01' on, 'cv09' on, 'cv11' on, 'cv05' on, 'ss03' on;--framer-font-size:22px;--framer-font-weight:700;--framer-letter-spacing:-0.02em;--framer-line-height:1em;--framer-text-alignment:center;--framer-text-color:var(--extracted-1of0zx5, rgb(255, 255, 255))">BOOK MY FREE AUDIT</h2></div><div data-framer-component-type="SVG" parentsize="0" _constraints="[object Object]" rotation="0" shadows class="framer-12bnssz" aria-hidden="true" style="image-rendering:pixelated;flex-shrink:0;fill:rgb(255, 255, 255);color:rgb(255, 255, 255)"><div class="svgContainer" style="width:100%;height:100%;aspect-ratio:inherit"><svg style="width:100%;height:100%;"><use href="#svg-866811255_189"/></svg></div></div></div></div></div></a><!--/$--></div></div></div></div></div></div></div></div></div><div class="framer-1kycvi1 hidden-4s8koe hidden-uwvbux"><div class="framer-gh8c0y"><div class="framer-9itru8" data-framer-name="bg shape" style="transform:rotate(-43deg)"></div></div></div><div class="framer-pqhicm" style="transform:translateX(-50%)"><div class="framer-1l29gjx" data-framer-name="bg shape" style="transform:rotate(-43deg)"></div></div><div class="framer-10c3wkd"><div class="framer-1la01sa" data-framer-name="bg shape" style="transform:rotate(-43deg)"></div></div><section class="rp-more">
 <div class="rp-sec">
   <h2 class="rp-h"><span>THE NUMBERS BEHIND</span><span class="g">THE SYSTEM</span></h2>
   <div class="rp-stats">

diff --git a/index.html b/index.html
@@ -212,8 +212,8 @@
             <span class="group__rule"></span>
           </div>
           <div class="grid grid--2">
-            <button class="pcard reveal" data-title="Free audit page" data-embed="free-audit/?v=13">
-              <span class="thumb"><span class="thumb__bar"><i></i><i></i><i></i><span class="thumb__url">your link in bio</span></span><img class="thumb__img" src="assets/img/freeaudit-preview.jpg?v=10" alt="Free audit page preview" loading="lazy" /></span>
+            <button class="pcard reveal" data-title="Free audit page" data-embed="free-audit/?v=14">
+              <span class="thumb"><span class="thumb__bar"><i></i><i></i><i></i><span class="thumb__url">your link in bio</span></span><img class="thumb__img" src="assets/img/freeaudit-preview.jpg?v=11" alt="Free audit page preview" loading="lazy" /></span>
               <span class="pcard__body"><span><span class="pcard__kicker">02 · Your link in bio</span><span class="pcard__title">Free audit page</span><span class="pcard__desc">Your video on top, what we cover on the audit, how to book it and your clients&rsquo; wins. One button everywhere: Book my free audit.</span></span><span class="pcard__link">Open preview <span class="arrow" aria-hidden="true"></span></span></span>
             </button>
             <button class="pcard reveal" data-title="Booked call page" data-embed="booked/?v=3">
